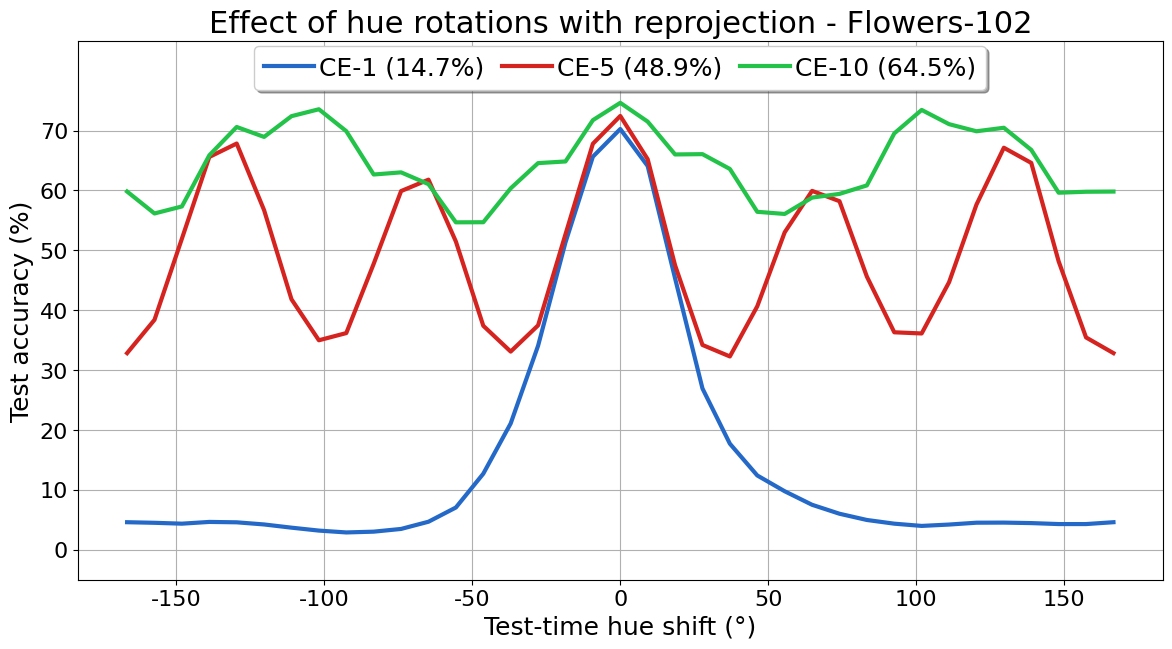
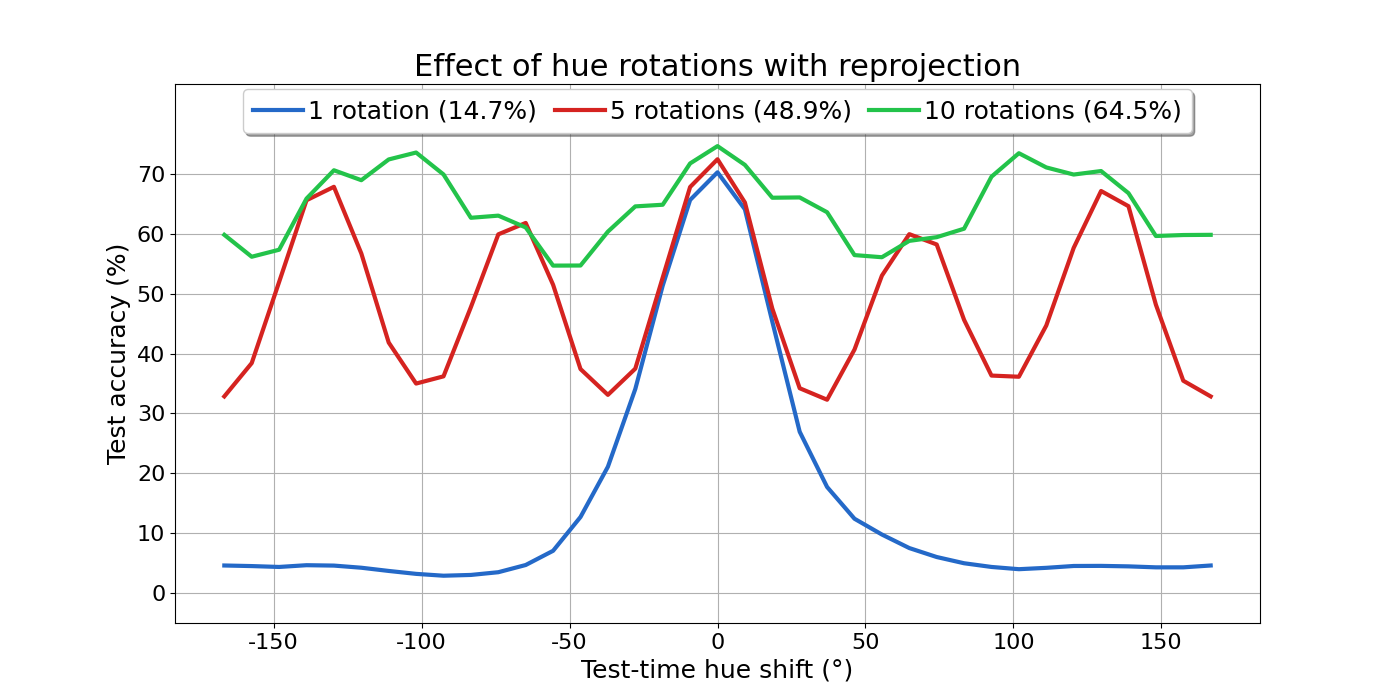
rewriting blogpost

diff --git a/CEConv/utils.py b/CEConv/utils.py
@@ -374,22 +374,18 @@ def hue_shifts_plot():
     x = [-0.5, -0.4722222222222222, -0.4444444444444444, -0.4166666666666667, -0.3888888888888889, -0.3611111111111111, -0.33333333333333337, -0.3055555555555556, -0.2777777777777778, -0.25, -0.2222222222222222, -0.19444444444444448, -0.16666666666666669, -0.1388888888888889, -0.11111111111111116, -0.08333333333333337, -0.05555555555555558, -0.02777777777777779, 0.0, 0.02777777777777779, 0.05555555555555558, 0.08333333333333326, 0.11111111111111105, 0.13888888888888884, 0.16666666666666663, 0.19444444444444442, 0.2222222222222222, 0.25, 0.2777777777777777, 0.30555555555555547, 0.33333333333333326, 0.36111111111111105, 0.38888888888888884, 0.41666666666666663, 0.4444444444444444, 0.4722222222222222, 0.5]
 
     y_1 = [0.04602374508976936, 0.045047976076602936, 0.043584324419498444, 0.04651162773370743, 0.04586111381649971, 0.04228329658508301, 0.036916572600603104, 0.032037731260061264, 0.028947796672582626, 0.030248820781707764, 0.034802407026290894, 0.04683688282966614, 0.07058057934045792, 0.12701252102851868, 0.21092860400676727, 0.3407058119773865, 0.5132541656494141, 0.6563668847084045, 0.7025532722473145, 0.6407545804977417, 0.4532444179058075, 0.2693120837211609, 0.1771019697189331, 0.12408521771430969, 0.09773947298526764, 0.07513416558504105, 0.06017238646745682, 0.04976418986916542, 0.043584324419498444, 0.03984387591481209, 0.04212066903710365, 0.04521060362458229, 0.045373231172561646, 0.04456008970737457, 0.042933810502290726, 0.042933810502290726, 0.04602374508976936]
-    y_1_nonorm = [0.04098227247595787, 0.040169134736061096, 0.03854285180568695, 0.04179541394114494, 0.043259065598249435, 0.04212066903710365, 0.03935599327087402, 0.033176127821207047, 0.029923565685749054, 0.02976093627512455, 0.03285086899995804, 0.04423483461141586, 0.06879167258739471, 0.12392258644104004, 0.2104407250881195, 0.3381037712097168, 0.5204098224639893, 0.6625467538833618, 0.7028785347938538, 0.6444950103759766, 0.4556838572025299, 0.2693120837211609, 0.17921613156795502, 0.1315661072731018, 0.10099203139543533, 0.07806147634983063, 0.06505122780799866, 0.05285412445664406, 0.047812651842832565, 0.045047976076602936, 0.04423483461141586, 0.04862579330801964, 0.05073995888233185, 0.048137906938791275, 0.04130753129720688, 0.04309643805027008, 0.04098227247595787]
-
     y_5 = [0.3283460736274719, 0.383964866399765, 0.5194340348243713, 0.655879020690918, 0.6783216595649719, 0.5670840740203857, 0.41827940940856934, 0.34981298446655273, 0.361847460269928, 0.47747600078582764, 0.59895920753479, 0.6179866790771484, 0.5147178173065186, 0.3740445673465729, 0.3309481143951416, 0.3746950626373291, 0.5267522931098938, 0.6779963970184326, 0.7243454456329346, 0.6521385312080383, 0.4750365912914276, 0.3420068323612213, 0.32281672954559326, 0.406570166349411, 0.5300048589706421, 0.5992844104766846, 0.58204585313797, 0.4561717212200165, 0.3631484806537628, 0.36119693517684937, 0.4467393159866333, 0.576353907585144, 0.6713286638259888, 0.6459587216377258, 0.4815417230129242, 0.3545292019844055, 0.3283460736274719]
-    y_5_nonorm = [0.3237924873828888, 0.38494065403938293, 0.5124410390853882, 0.6480728387832642, 0.6744186282157898, 0.5524475574493408, 0.4044560194015503, 0.33729061484336853, 0.35339078307151794, 0.47064563632011414, 0.5966823697090149, 0.618637204170227, 0.5062611699104309, 0.3678646981716156, 0.32281672954559326, 0.37843552231788635, 0.5069116950035095, 0.6745812296867371, 0.7230443954467773, 0.6431940197944641, 0.45633435249328613, 0.33322492241859436, 0.31533583998680115, 0.4055944085121155, 0.5295169949531555, 0.6064400672912598, 0.5825337171554565, 0.45194339752197266, 0.35257765650749207, 0.3564807176589966, 0.43909579515457153, 0.5747275948524475, 0.6718165278434753, 0.6483981013298035, 0.4797528088092804, 0.33973002433776855, 0.3237924873828888]
-    # y_5_nonorm = [0.04634900018572807, 0.045535858720541, 0.052691493183374405, 0.05187835544347763, 0.038380224257707596, 0.028459912165999413, 0.02097902074456215, 0.013498129323124886, 0.010245568118989468, 0.010896081104874611, 0.017075946554541588, 0.021792162209749222, 0.033826638013124466, 0.0577329657971859, 0.10798503458499908, 0.20442348718643188, 0.3883558213710785, 0.5895267724990845, 0.6448202729225159, 0.5714750289916992, 0.3821759521961212, 0.22182469069957733, 0.12847617268562317, 0.08489185571670532, 0.06163603812456131, 0.045047976076602936, 0.033176127821207047, 0.026345746591687202, 0.023906325921416283, 0.021954789757728577, 0.02211741730570793, 0.019190112128853798, 0.01642543449997902, 0.0175638310611248, 0.02488209493458271, 0.033826638013124466, 0.04634900018572807]
-
     y_10 = [0.5981460213661194, 0.5615547299385071, 0.573263943195343, 0.6586436629295349, 0.70596843957901, 0.689380407333374, 0.7240201830863953, 0.7355667352676392, 0.6989754438400269, 0.6266059279441833, 0.630183756351471, 0.6105057597160339, 0.5467555522918701, 0.5469182133674622, 0.6035127639770508, 0.6456334590911865, 0.6483981013298035, 0.7173523902893066, 0.746300220489502, 0.714913010597229, 0.6601073145866394, 0.6605952382087708, 0.6358757615089417, 0.564319372177124, 0.5607416033744812, 0.58806312084198, 0.5942429900169373, 0.6083915829658508, 0.695235013961792, 0.734428346157074, 0.7106846570968628, 0.6988128423690796, 0.7046674489974976, 0.6677508354187012, 0.5961945056915283, 0.5978207588195801, 0.5981460213661194]
+    
     print("Max accuracy 1 rot: ", max(y_1))
     print("Max accuracy 5 rot: ", max(y_5))
     print("Max accuracy 10 rot: ", max(y_10))
 
     f, (ax1) = plt.subplots(1, 1, figsize=(14,7))
 
-    ax1.plot(x, y_1, color='#2469c8', label=f'CE-1 ({np.mean(y_1)*100:.1f}%)', linewidth=3)
-    ax1.plot(x, y_5, color='#d52320', label=f'CE-5 ({np.mean(y_5)*100:.1f}%)', linewidth=3)
-    ax1.plot(x, y_10, color='#23c34a', label=f'CE-10 ({np.mean(y_10)*100:.1f}%)', linewidth=3)
+    ax1.plot(x, y_1, color='#2469c8', label=f'1 rotation ({np.mean(y_1)*100:.1f}%)', linewidth=3)
+    ax1.plot(x, y_5, color='#d52320', label=f'5 rotations ({np.mean(y_5)*100:.1f}%)', linewidth=3)
+    ax1.plot(x, y_10, color='#23c34a', label=f'10 rotations ({np.mean(y_10)*100:.1f}%)', linewidth=3)
     ax1.grid(axis="x")
     ax1.grid(axis="y")
     ax1.set_ylim(-0.05, 0.85)
@@ -397,7 +393,7 @@ def hue_shifts_plot():
     ax1.set_yticklabels([0, 10, 20, 30, 40, 50, 60, 70], fontsize=16)
     ax1.set_xticks([-0.45, -0.3, -0.15, 0.0, 0.15, 0.3, 0.45])
     ax1.set_xticklabels([-150, -100, -50, 0, 50, 100, 150], fontsize=16)
-    ax1.set_title('Effect of hue rotations with reprojection - Flowers-102', fontsize=22)
+    ax1.set_title('Effect of hue rotations with reprojection', fontsize=22)
     ax1.set_xlabel('Test-time hue shift (°)', fontsize=18)
     ax1.set_ylabel('Test accuracy (%)', fontsize=18)
 

diff --git a/blogpost.md b/blogpost.md
@@ -114,18 +114,17 @@ $$\begin{align}
 
 ## Reproduction of Experiments
 
-The reproduction of (a selection of) the experiments is primarily achieved through the code provided along with the original paper. However, this did not include the code to reproduce the plots which had to be added. Moreover, it was necessary to supplement functionalities such as saving, loading, and evaluating results to achieve sufficient reproduction. Lastly, running all experiments proved difficult, as not all commands were provided or explained in the READme file. Therefore, reproducing the experiments exactly required some investigation of the code.
+The reproduction of (a selection of) the experiments is primarily achieved through the code provided along with the original paper. However, the code for reproducing the plots was not included and had to be added separately. Moreover, it was necessary to supplement functionalities such as saving, loading, and evaluating results to achieve sufficient reproduction. Lastly, running all experiments proved difficult, as not all commands were provided or explained in the READme file. Therefore, reproducing the experiments exactly required some investigation of the code.
 
 ### When is color equivariance useful? 
 
 First, the experiments that show the importance of color equivariance are reproduced. This mainly includes exploring various datasets, starting with a color-imbalanced dataset and followed by the investigation of datasets with a high/low color selectivity.
 
-#### Color imbalance
+#### Color Imbalance
 
-To verify that color equivariance can share shape information across classes, we reproduced the long-tailed ColorMNIST experiment.  In this experiment, a 30-way classification is performed on a power law distributed dataset where 10 shapes (digits 0-9) and 3 colors (Red, Green, Blue) need to be distinguished. During training, classes are not equally distributed. During testing, all classes are evaluated on 250 examples. Sharing shape information across colors is beneficial during this experiment as a certain digit may occur more frequently in one color than in another. 
+To verify that color equivariance can share shape information across classes, we reproduced the long-tailed ColorMNIST experiment. In this experiment, a 30-way classification is performed on a power law distributed dataset where 10 shapes (digits 0-9) and 3 colors (Red, Green, Blue) need to be distinguished. During training, classes are not equally distributed. During testing, all classes are evaluated on 250 examples. The hypothesis is that sharing shape information across colors is beneficial as a certain digit may occur more frequently in one color than in another. 
 
-Two models were tested; the Z2CNN [[1]](#group_convs), a vanilla 7-layer CNN model, consisting of 25,990 trainable parameters, and the CECNN model, a corresponding color equivariance version consisting of 25,207 trainable parameters. To ensure the same amount of parameters were trained for both models, the width of the CECNN is smaller, which was a priority of the original authors to have a level comparison. However, the training time of the two models differed significantly with the Z2CNN model training 59% $\pm$ 4 faster than the CECNN network. Because of this, we did an additional experiment where we tried to have the training times the same as each other by fluctuating the number of 
-parameters. This experiment is done in Appendix [Training time study](#d-training-time-study). The exact training method and performance can be seen in the provided ReadMe file. 
+Two models were tested; the Z2CNN [[1]](#group_convs), a vanilla 7-layer CNN model, consisting of 25,990 trainable parameters, and the CECNN model, a corresponding color equivariance version consisting of 25,207 trainable parameters. To ensure the same amount of parameters were trained for both models, the width of the CECNN is smaller, which was a priority of the original authors to have a level comparison. However, the training time of the two models differed significantly with the Z2CNN model training 59% $\pm$ 4 faster than the CECNN network. Therefore, we conducted an additional experiment where we adjusted the number of parameters to keep the training times consistent. This experiment is done in Appendix [Training time study](#d-training-time-study). 
 
 <div align="center">
   <img src="blogpost_imgs/Longtailed.png" alt="Longtailed dataset results" width="600">
@@ -133,16 +132,17 @@ parameters. This experiment is done in Appendix [Training time study](#d-trainin
   *Figure 1: Classification performance of a normal CNN (Z2CNN) and the color equivariant CNN (CECNN) on a long-tailed, unequally distributed dataset, illustrating the impact of weight sharing in the color domain.*
 </div>
 
-The x-axis of Figure 1 is ordered based on the availability of training samples for every class. The shape-sharing CECNN consistently outperforms the baseline Z2CNN, where the average performance of Z2CNN is 66.8% $\pm$ 0.6% and CECNN is 85.2% $\pm$ 1.2%. The greatest performance improvement can be seen for classes with smaller amounts of training data, thus confirming the hypothesis that the CECNN is able to share shape weight information effectively. These results are in line with the findings of the original authors, who also describe a large performance increase. A difference in findings is the std. deviation of the CECNN which is larger than that of the Z2CNN. However, this could be due to the randomness when generating the data* which resulted in a different data distribution for our experiment.
+The x-axis of Figure 1 is ordered based on the availability of training samples for every class. The shape-sharing CECNN consistently outperforms the baseline Z2CNN, where the average performance of Z2CNN is 66.8% $\pm$ 0.6% and CECNN is 85.2% $\pm$ 1.2%. The greatest performance improvement can be seen for classes with smaller amounts of training data, confirming the hypothesis that the CECNN is able to share shape information effectively. These results are in line with the findings of the original authors, who also describe a large performance increase. A difference in findings is the standard deviation of the CECNN which is larger than that of the Z2CNN. However, this could be due to the randomness when generating the data* which resulted in a different data distribution for our experiment.
 
-<span style="color:grey">* We made the data generation deterministic by setting a seed, and recreating our experiment would return the same data distribution.</span>
+<!--<span style="color:grey">* We made the data generation deterministic by setting a seed, and recreating our experiment would return the same data distribution.</span>-->
+\* *We made the data generation deterministic by setting a seed, and recreating our experiment would return the same data distribution.*
 
 
 #### Color Selectivity
 
-Color selectivity is defined as: “The property of a neuron that activates highly when a particular color appears in the input image and, in contrast, shows low activation when this color is not present.” [[3]](#color_selectivity). The authors of the original paper utilize this notion to define the color selectivity of a dataset as an average of all neurons in the baseline (ResNet-18) CNN trained on the respective dataset. We reproduced the experiment to investigate the influence of using color equivariance up to later stages. Due to computational constraints, only two of the four datasets were explored; flowers102 with the highest color selectivity (0.70) and STL10 with the lowest color selectivity (0.38). While we did not explore the remaining datasets extensively, their color selectivity was comparable to STL10, suggesting that our findings are inclusive for these datasets.
+Color selectivity is defined as: “The property of a neuron that activates highly when a particular color appears in the input image and, in contrast, shows low activation when this color is not present.” [[3]](#color_selectivity). The authors of the original paper utilize this notion to define the color selectivity of a dataset as an average of all neurons in the baseline (ResNet-18) CNN trained on the respective dataset. We reproduced the experiment to investigate the influence of using color equivariance up to later stages in the network. Due to computational constraints, only two of the four datasets were explored; flowers102 with the highest color selectivity (0.70) and STL10 with the lowest color selectivity (0.38). While we did not explore the remaining datasets extensively, their color selectivity was comparable to STL10, suggesting that our findings are inclusive for all datasets.
 
-In Figure 2, the accuracy improvement of color equivariance up to later stages in the network is displayed for the aforementioned datasets. The baseline is the ResNet-18 model trained for one hue rotation, which encodes a 0-degree hue shift. As this network is not hue equivariant (equivariance up to 0 stages) it corresponds to the first value plotted in Figure 2. For the other values, HybridResNet-18 models are trained with 3 rotations, max pooling, separable kernels, and the number of color equivariant stages as shown in the figure. Additionally, the graph on the right shows the result with color-jitter augmentation.
+In Figure 2, the accuracy improvement of color equivariance up to later stages in the network is displayed for the aforementioned datasets. The baseline is the ResNet-18 model trained for one hue rotation, which encodes a 0-degree hue shift. As this network is not hue equivariant, it serves as the baseline value. For the other values, HybridResNet-18 models are trained with 3 rotations, max pooling, separable kernels, and the number of color equivariant stages as shown in the figure. Additionally, the graph on the right shows the result with color-jitter augmentation.
 
 <div align="center">
   <img src="blogpost_imgs/color_selectivity.png" alt="Color selectivity results" width="600">
@@ -150,40 +150,39 @@ In Figure 2, the accuracy improvement of color equivariance up to later stages i
   *Figure 2: Influence of color equivariance embedded up to late stages in the network on datasets with high and low color selectivity.*
 </div>
 
-Similar to the original paper’s results, the color-selective dataset seems to benefit from color equivariance up to later stages in the network, in contrast to the less color-selective dataset. This is especially clear for the graph with color-jitter augmentation. However, the color selectivity seems detrimental at the earlier stages without color-jitter augmentation for the color-selective dataset. In general, the accuracy improvements/deteriorations are less extreme compared to the original results. The differences might be explained by the fact that we trained the model on the full datasets instead of on a subset. By our results, we suspect that color equivariance is solely significantly beneficial for color-selective datasets in combination with color-jitter augmentation. Otherwise, the differences are negligible. 
+Similar to the original paper’s results, the color-selective dataset benefits from color equivariance up to later stages in the network, in contrast to the less color-selective dataset. This effect is especially evident in the graph with color-jitter augmentation. However, the color selectivity appears detrimental at the earlier stages for the color-selective dataset without color-jitter augmentation. In general, the accuracy improvements and deteriorations are less extreme compared to the original results. These differences might be explained by the fact that we trained the model on the full datasets instead of on a subset. By our results, we suspect that color equivariance is solely significantly beneficial for color-selective datasets in combination with color-jitter augmentation. Otherwise, the differences are negligible. 
 
-### Color Equivariance in Image Classification and impact of hyperparameters
+### Color Equivariance in Image Classification and the Impact of Hyperparameters
 
-We will now explore the reproduction of the main results along with a small insight into the hyperparameters. These results are all limited to the Flowers102 dataset since it has the largest color discrepancy and the ResNet-18 model, aligning with the original paper. The final experiment is an ablation study investigating the impact of varying the number of discrete hue rotations. This aspect is altered across different experiments, highlighting its importance.
+We will now explore the reproduction of the main results along with a small insight into the hyperparameters. These results are all limited to the Flowers102 dataset since it has the largest color discrepancy, see [Color Selectivity](#color-selectivity). Furthermore, the (CE-)ResNet-18 model is utilized, aligning with the original paper. The final experiment is an ablation study investigating the impact of varying the number of discrete hue rotations. This aspect is altered across different experiments, highlighting its importance.
 
 #### Image Classification
 
-
-Our evaluation of image classification performance involved training a baseline ResNet-18 model comprising approximately 11,390,000 parameters, alongside the novel color equivariant CE-ResNet trained with three rotations. Both models underwent training with and without jitter(augmenting the training data with varying hue-intensity images). Subsequently, we assessed their performance on test sets subjected to gradual hue shifts ranging from -180° to 180°.
+To evaluate the image classification performance, we trained a baseline ResNet-18 model comprising approximately 11,390,000 parameters, alongside the novel color equivariant ResNet-18 (CE-ResNet-18) trained with three rotations. Both models were trained with and without jitter (augmenting the training data with varying hue-intensity images). Subsequently, we assessed their performance on test sets subjected to gradual hue shifts ranging from -180° to 180°.
 
 <div align="center">
   <img src="blogpost_imgs/Test-time_Hue_Shifts.png" alt="Classification Test-time Hue Shifts" width="600">
 
-  *Figure 3: Test accuracy on flowers classification dataset under a test-time hue shift*
+  *Figure 3: Image classification performance (test accuracy) on flowers classification dataset under a test-time hue shift*
 </div>
 
-In Figure 3, both the baseline ResNet and the CE-ResNet demonstrate good performance when no hue shift is applied (test-time hue shift of 0 degrees). For models trained with test-time shifts, we report their average accuracy across all test-time shifts in the legend. The CE-ResNet displays optimal performance in three specific hue areas, which correspond to the three discrete orientations it is trained on. Moreover, the CE-ResNet consistently maintains performance levels above or equal to the original ResNet across almost all hue shifts, indicating its dominance across distributional changes.
+In Figure 3, both the baseline ResNet-18 and the CE-ResNet-18 demonstrate good performance when no hue shift is applied (test-time hue shift of 0 degrees). The average accuracy across all test-time shifts of all models is reported in the legend. The CE-ResNet-18 displays optimal performance in three specific hue areas, which correspond to the three discrete orientations it is trained on. Moreover, the CE-ResNet-18 consistently maintains performance levels above or equal to the original ResNet-18 across almost all hue shifts, indicating its dominance across distributional changes.
 
-When trained with jitter, both models exhibit robustness against distributional shifts, in line with the original author's findings, with the CE-ResNet-18 showing slightly better performance.  This advantage is attributed to more efficient weight sharing, meaning that more information about other features could be stored. Additional insight into the relation between jitter and the CE-ResNet-18 model in terms of accuracy is provided in Appendix [Reproduction of Jitter Ablation Study](#c-reproduction-of-jitter-ablation-study). Notably, these models take around 6 times longer to train than the non-jittered models. The extended training duration of these models could be attributed to the convoluted sampling process involved in generating jittered images.
+When trained with jitter, both models exhibit robustness against distributional shifts, in line with the original author's findings, with the CE-ResNet-18 showing slightly better performance. This advantage is attributed to more efficient weight sharing, meaning that more information about other features could be stored. Additional insight into the relation between jitter and the CE-ResNet-18 model in terms of accuracy is provided in Appendix [Reproduction of Jitter Ablation Study](#c-reproduction-of-jitter-ablation-study). Notably, these models take around six times longer to train than the non-jittered models. The extended training duration of these models could be attributed to the convoluted sampling process involved in generating jittered images.
 
 Comparing training and testing times, the baseline model completes its training approximately 50% faster than the CEConv model. Testing time took around 2.3 times as long for the novel CEConv model. This indicates a significant speed advantage for production with the baseline model, albeit with a slight sacrifice in performance due to the lack of CEConvs.
 
 #### Number of Rotations
 
-The main implementation of color-equivariance consists of adding three rotations of 120 degrees, whereas the baseline model (not-equivariant) can be expressed as having 1 rotation. In Figure 4, we reproduced the experiments examining the effect of additional rotations. In order to save computational power, we limited the experiments to 1, 5, and 10 rotations (instead of 1-10 in the original paper). The models are evaluated across 37 discrete hue shifts during test time, similar to the previous experiment.
+The main implementation of color equivariance consists of adding three rotations of 120 degrees, whereas the baseline model (without equivariance) can be expressed as having one rotation. In Figure 4, we reproduced the experiments examining the effect of additional rotations on the CE-ResNet-18. In order to save computational power, we limited the experiments to 1, 5, and 10 rotations (instead of 1-10 in the original paper). The models are evaluated across 37 discrete test-time hue shifts, similar to the previous experiment.
 
 <div align="center">
   <img src="blogpost_imgs/rotations.png" alt="Hue rotations" width="600">
 
-  *Figure 4: Accuracy with varying rotations.*
+  *Figure 4: Effect of the number of rotations on the accuracy of the CE-ResNet-18.*
 </div>
 
-While the smooth plot lines of the original paper indicate that they evaluated their models across more discrete hue shifts, the trends are similar to the original paper’s findings. The number of peaks corresponds to the number of discrete hue rotations each model is trained on. Additionally, when looking at the CE-5 and CE-10 models it is noticeable that the height of some peaks of these models is lower than others. These artifacts can be attributed to a necessary reprojection when modeling hue shifts in the RGB space (More details are provided in the next section). Based on these results it seems that training models with more rotations leads to higher hue equivariance. These results reveal a trade-off between the amount of equivariance, the maximum accuracy, and the number of parameters as displayed in Table 1. However, when evaluating this trade-off, it is important to consider that equivariant models tend to be more data efficient compared to non-equivariant models.
+While the smooth plot lines of the original paper indicate that they evaluated their models across more discrete hue shifts, the trends are similar to the original paper’s findings. The number of peaks corresponds to the number of discrete hue rotations each model is trained on. Additionally, when looking at the CE-ResNet-18 with 5 and 10 roations, it is noticeable that the height of some peaks of these models is lower than others. These artifacts can be attributed to a necessary reprojection when modeling hue shifts in the RGB space (more details are provided in the next section). Based on these results it seems that training models with more rotations leads to higher hue equivariance. These results reveal a trade-off between the amount of equivariance, the maximum accuracy, and the number of parameters as displayed in Table 1. However, when evaluating this trade-off, it is important to consider that equivariant models tend to be more data efficient compared to non-equivariant models.
 
 <div align="middle" width=30%">
 
@@ -348,7 +347,7 @@ We separate 2 cases where we train the potential equivariant network (CE-ResNet-
   *Figure 6: Illustrates the test accuracy scores of a variety of models evaluated with 37 Test-time hue shifts spanning the full range of -180° to 180° hue rotations. The CE-ResNet-18 models are trained for 3 discrete hue rotations of 0°, 120°, and 240° applied to the kernel during the lifting convolution. The baseline models are standard ResNet-18 CNNs without any group convolutional layers. ([source](CEConv/plot_fig9_hue.py))* 
 </div>
 
-As expected, naively shifting the kernel does not work. In Figure 6, both the CE-ResNet-18 and the baseline model show a peak at the 0° hue shift angle, with performance deteriorating as the hue shift increases. Training with hue jitter data augmentations enables the ResNet model to perform robustly across the hue spectrum, but the CE-ResNet-18 still does not outperform the baseline. This failure to achieve hue shift equivariance stems from the inability to treat and shift the kernel like an image, leading to inconsistencies. For example, the hue shifts act more as added bias than a rotation, and negative weights are mapped to high positive hue values rather than low values due to the modulo operator. In addition, the latter violates the group property of the existence of an inverse, since we cannot reverse the modulus operation to retrieve negative values. Consequently, while this was an interesting experiment in HSV space, this approach has no practical merit.
+As expected, naively shifting the kernel does not work. In Figure 6, both the CE-ResNet-18 and the baseline model show a peak at the 0° hue shift angle, with performance deteriorating as the hue shift increases. Training with hue jitter data augmentations enables the ResNet-18 model to perform robustly across the hue spectrum, but the CE-ResNet-18 still does not outperform the baseline. This failure to achieve hue shift equivariance stems from the inability to treat and shift the kernel like an image, leading to inconsistencies. For example, the hue shifts act more as added bias than a rotation, and negative weights are mapped to high positive hue values rather than low values due to the modulo operator. In addition, the latter violates the group property of the existence of an inverse, since we cannot reverse the modulus operation to retrieve negative values. Consequently, while this was an interesting experiment in HSV space, this approach has no practical merit.
 
 **Shifting the Input Image -** Instead of naively hue-shifting the kernel we now perform the lifting convolution by shifting the input image effectively creating a hue-shifted image stack. Thus we transform the signal rather than the kernel. The experimental setup is identical to the previous experiment.
 
@@ -566,7 +565,7 @@ Figure C.1 displays a more nuanced view of the jitter, showing the ResNet18 mode
   *Figure C.1: Test accuracy over the hue-shift for color-equivariant and ResNet-18 with various degrees of color-jitter augmentation.* 
 </div>
 
-The figure shows that in order to create stable accuracy for the original model, jitter values of 0.2 and 0.4 are insufficient. Instead, the jitter augmentation should at least account for fluctuations of 50% as displayed in Figure 3. Contrarily, the CE-ResNet18 model improves significantly from adding 0.1 jitter and seems stable from 0.2 jitter. This can be explained by the fact that the color equivariance is applied for 3 rotations, resulting in equivariance at -120, 0, and 120 degrees (see the baseline). However, the CE-ResNet model only allows for discrete rotations. The addition of jitter can account for the values in between the rotations. Therefore, the equivariance helps reduce the amount of augmentation needed. However, the CE models increase the number of parameters from 11.2 M to 11.4 M. Therefore, there is a trade-off between accuracy and the number of parameters.
+The figure shows that in order to create stable accuracy for the original model, jitter values of 0.2 and 0.4 are insufficient. Instead, the jitter augmentation should at least account for fluctuations of 50% as displayed in Figure 3. Contrarily, the CE-ResNet18 model improves significantly from adding 0.1 jitter and seems stable from 0.2 jitter. This can be explained by the fact that the color equivariance is applied for 3 rotations, resulting in equivariance at -120, 0, and 120 degrees (see the baseline). However, the CE-ResNet-18 model only allows for discrete rotations. The addition of jitter can account for the values in between the rotations. Therefore, the equivariance helps reduce the amount of augmentation needed. However, the CE models increase the number of parameters from 11.2 M to 11.4 M. Therefore, there is a trade-off between accuracy and the number of parameters.
 
 ### D. Training time study 
 
